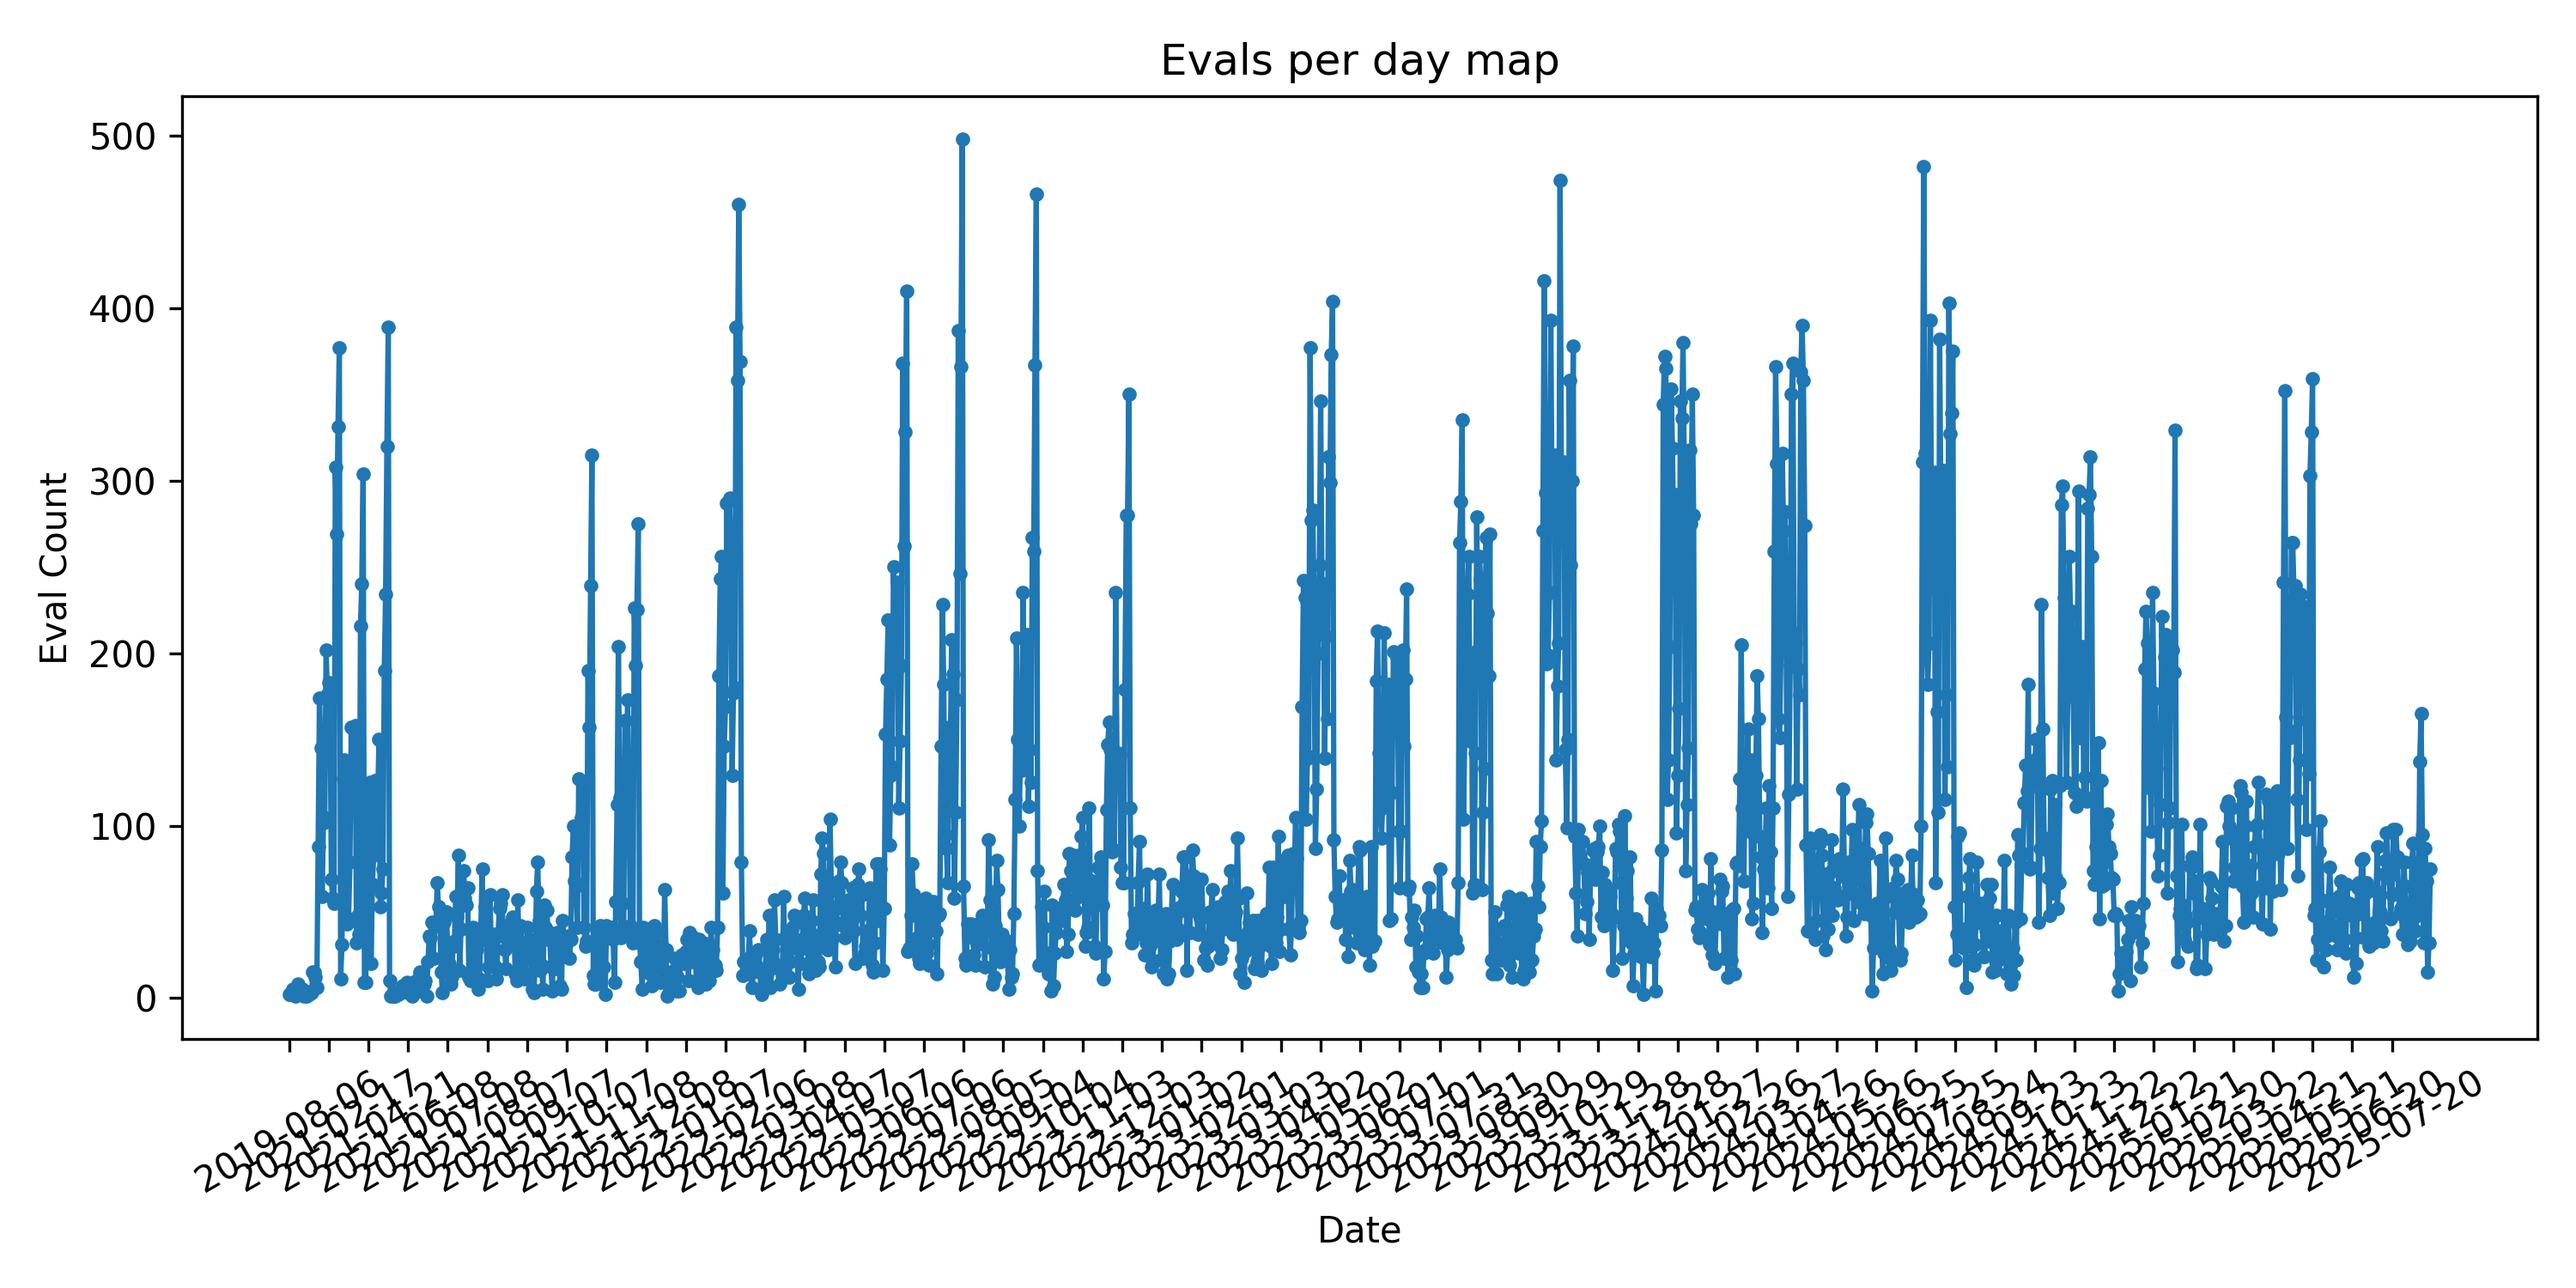
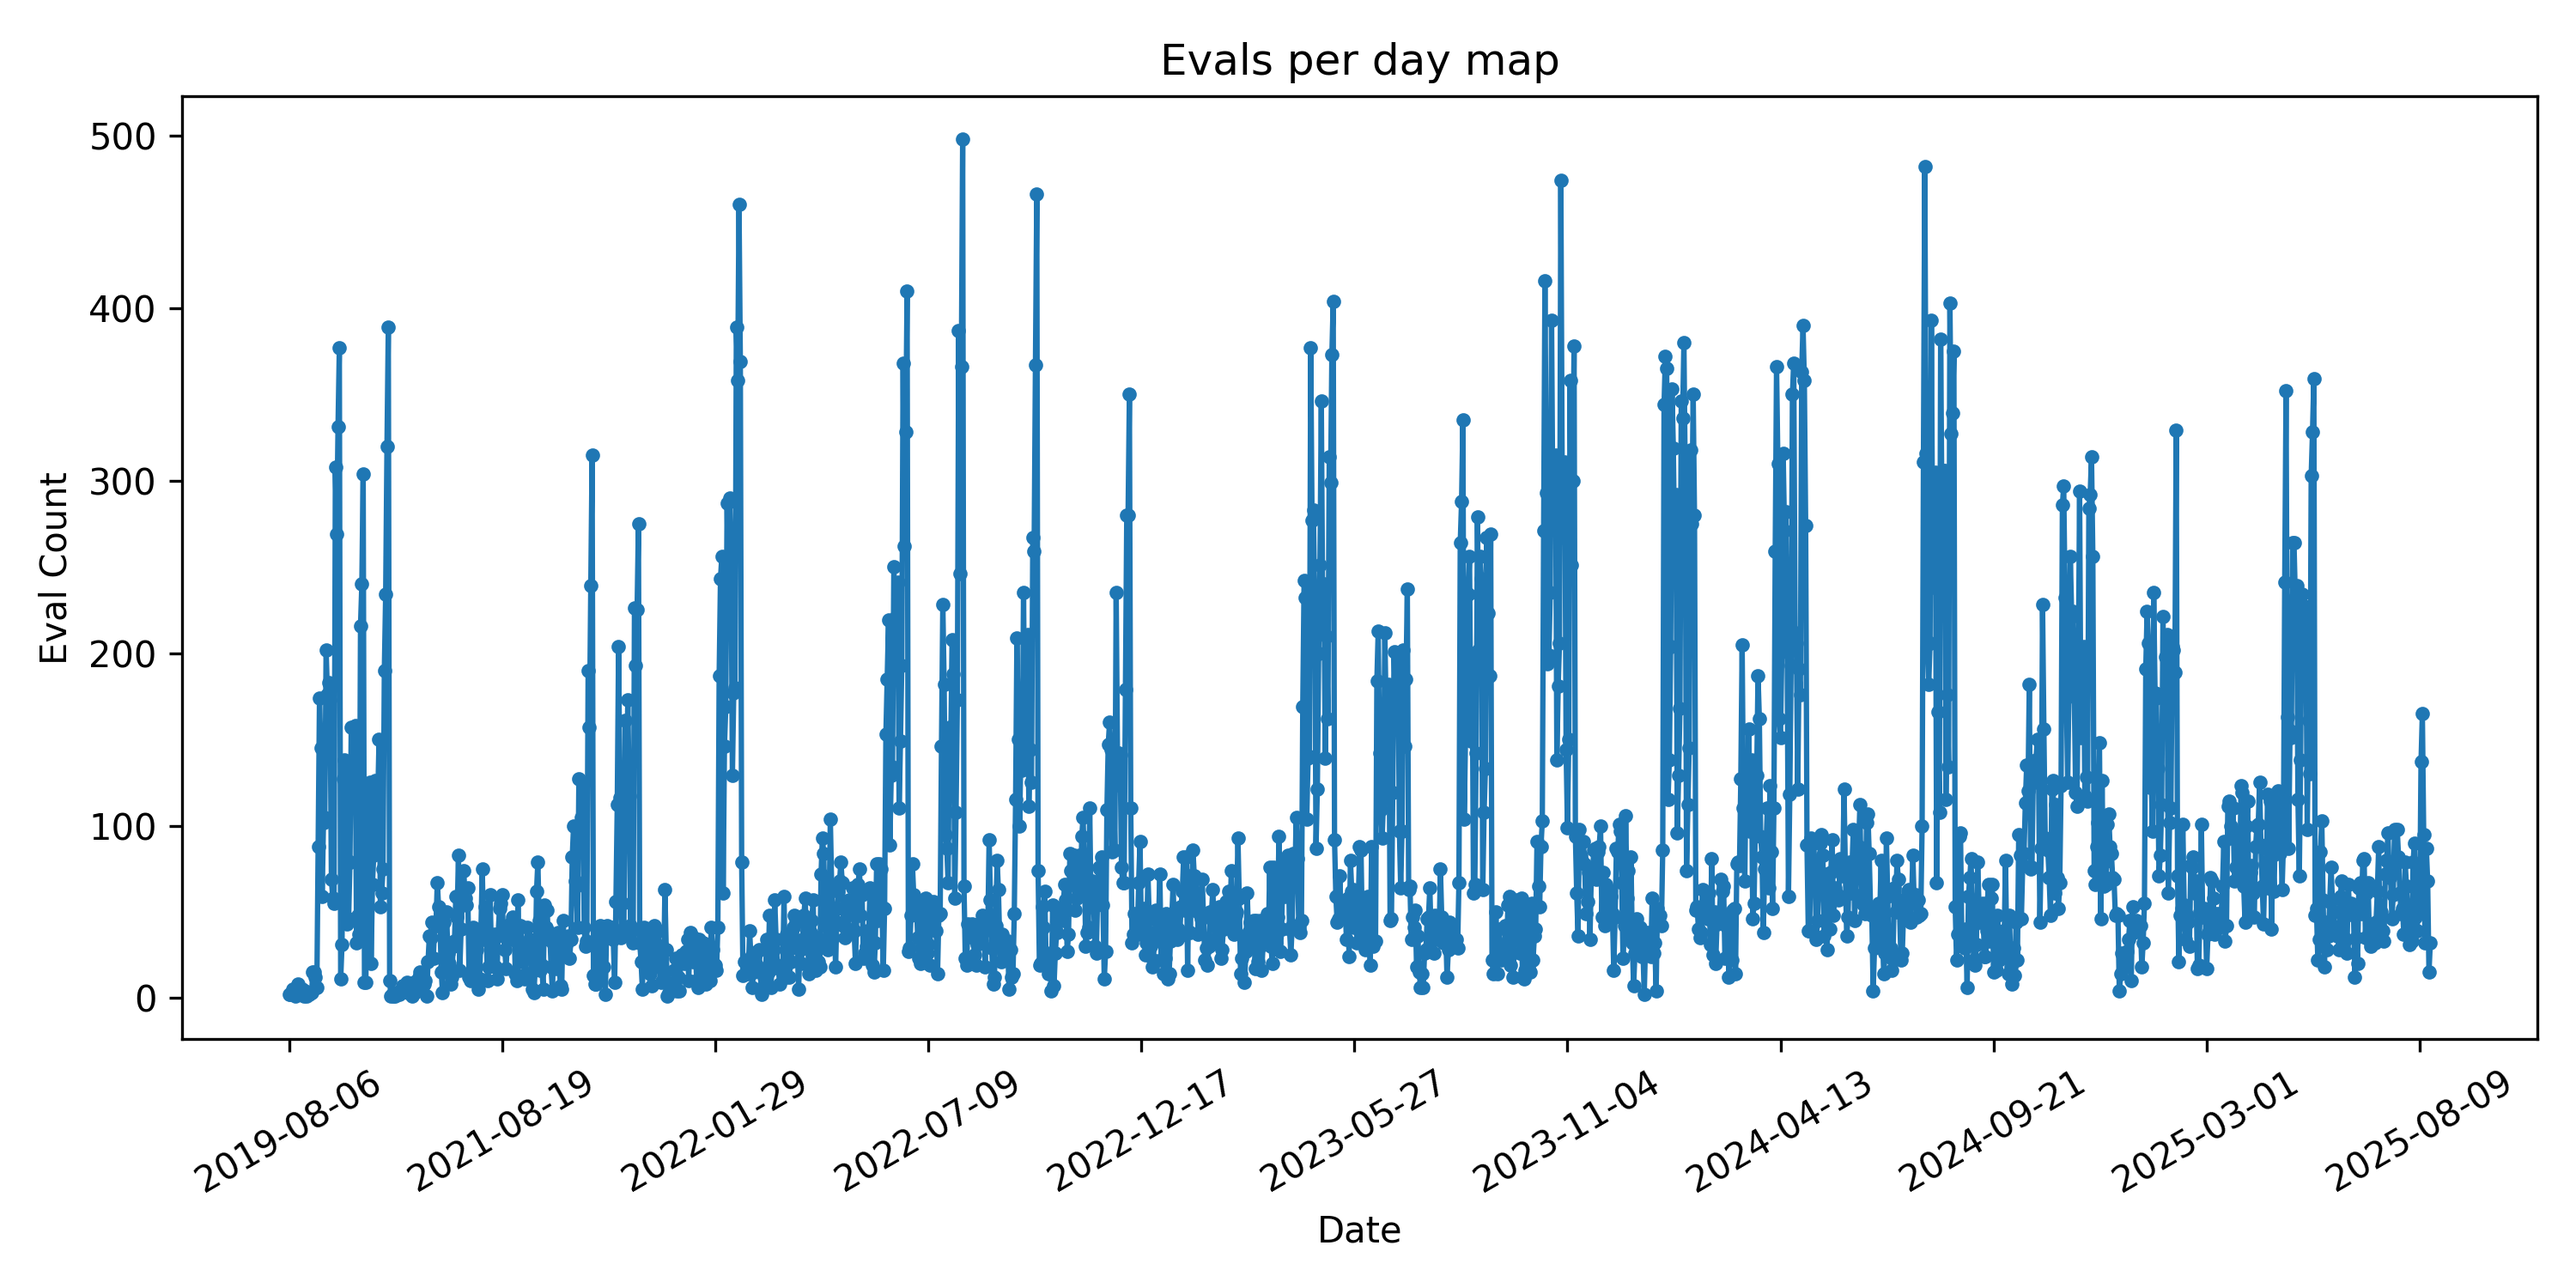
Update pictures;

diff --git a/create_analysis_and_documentation.py b/create_analysis_and_documentation.py
@@ -2,12 +2,18 @@ import json
 import matplotlib.pyplot as plt
 from datetime import datetime
 
-def basic_plot(data_map, title, x_axis, y_axis, save_name):
-    dates = [d for d, _ in data_map]
-    counts = [c for _, c in data_map]
+def basic_plot(data_list, title, x_axis, y_axis, save_name):
+    dates = [d for d, _ in data_list]
+    counts = [c for _, c in data_list]
+    if len(dates) > 1:
+        dates = dates[:-1]
+        counts = counts[:-1]
+    spots = 30
+    if len(counts) != 0:
+        spots = int(len(counts) / 10)
     plt.figure(figsize=(10, 5))
     plt.plot(dates, counts, marker=".")
-    plt.xticks(dates[::30], rotation=30)
+    plt.xticks(dates[::spots], rotation=30)
     plt.title(title)
     plt.xlabel(x_axis)
     plt.ylabel(y_axis)
@@ -29,12 +35,12 @@ basic_plot(data_map=total_active_users_per_date_sorted, x_axis="Date", y_axis="U
 
 evals_per_day_map = data.get("evals_per_day_map", {})
 
-evals_per_day_map_sorted = sorted(
+evals_per_day_list_sorted = sorted(
     evals_per_day_map.items(),
     key=lambda x: datetime.fromisoformat(x[0])
 )
 
-basic_plot(data_map=evals_per_day_map_sorted, x_axis="Date", y_axis="Eval Count", title="Evals per day map", save_name="evals_per_day_count")
+basic_plot(data_map=evals_per_day_list_sorted, x_axis="Date", y_axis="Eval Count", title="Evals per day map", save_name="evals_per_day_count")
 
 
 not_active_points_map = data.get("not_active_points_map", {})
@@ -45,9 +51,9 @@ not_active_points_map_sorted = sorted(
 )
 
 not_active_points_total = 0
-not_active_points_map_total = []
+not_active_points_list_total = []
 for key, value in not_active_points_map_sorted:
     not_active_points_total += value
-    not_active_points_map_total.append((key, not_active_points_total))
+    not_active_points_list_total.append((key, not_active_points_total))
 
-basic_plot(data_map=not_active_points_map_total, x_axis="Date", y_axis="Points", title="Points that are not active in the system", save_name="non_active_points")
+basic_plot(data_map=not_active_points_list_total, x_axis="Date", y_axis="Points", title="Points that are not active in the system", save_name="non_active_points")
